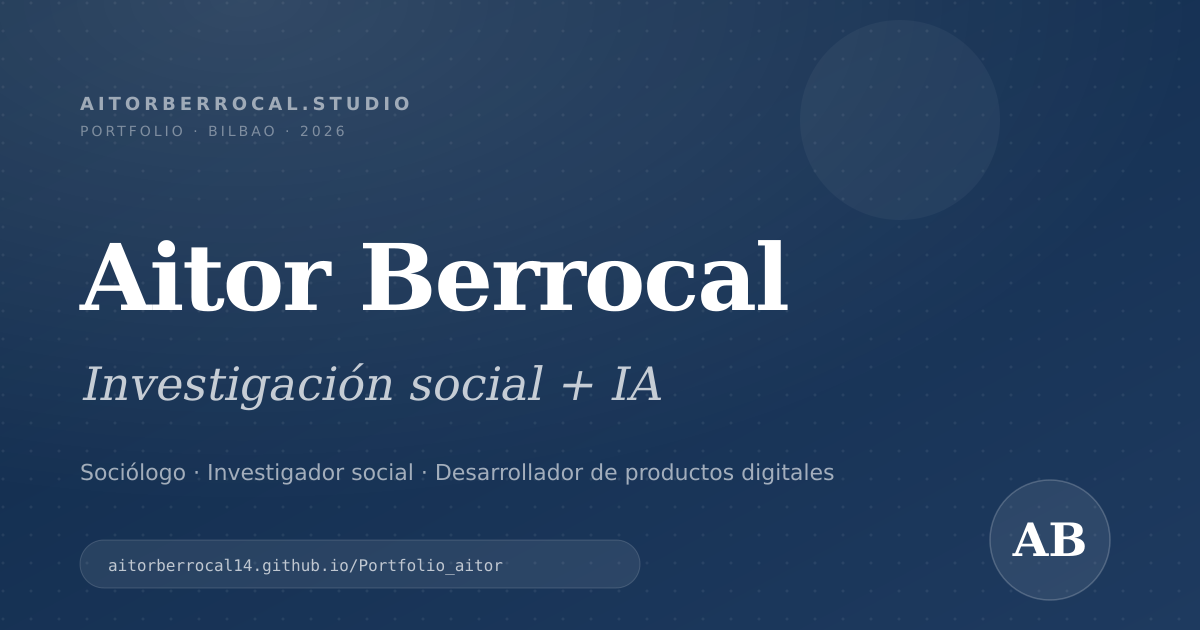
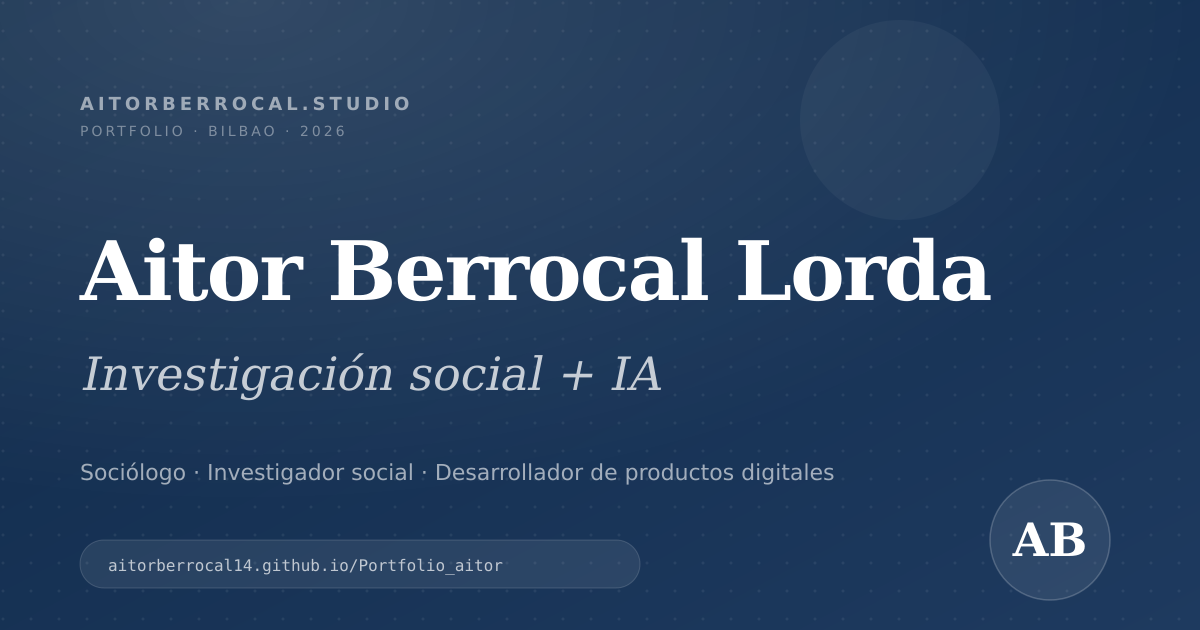
Usa foto real y muestra nombre completo (Aitor Berrocal Lorda)

Changed region(s): [[0.0617, 0.3619, 0.8325, 0.5127], [0.0617, 0.573, 0.555, 0.6635]]

diff --git a/src/data/site.ts b/src/data/site.ts
@@ -1,6 +1,6 @@
 export const site = {
   name: 'Aitor Berrocal Lorda',
-  shortName: 'Aitor Berrocal',
+  shortName: 'Aitor Berrocal Lorda',
   role: 'Sociólogo · Investigador social · Desarrollador de productos digitales',
   tagline:
     'Uno la mirada crítica y analítica de la sociología con la capacidad técnica para construir productos digitales con IA.',
@@ -10,7 +10,7 @@ export const site = {
   whatsapp: '34688634112',
   currentlyAt: 'Bilbao Ekintza',
   // Ruta relativa a /public. Cambia a 'about/aitor.jpg' cuando subas la foto real.
-  photo: 'about/aitor.svg',
+  photo: 'about/aitor.jpg',
   socials: {
     github: 'https://github.com/aitorberrocal14',
     linkedin: 'https://www.linkedin.com/in/aitor-berrocal-893b90329',
